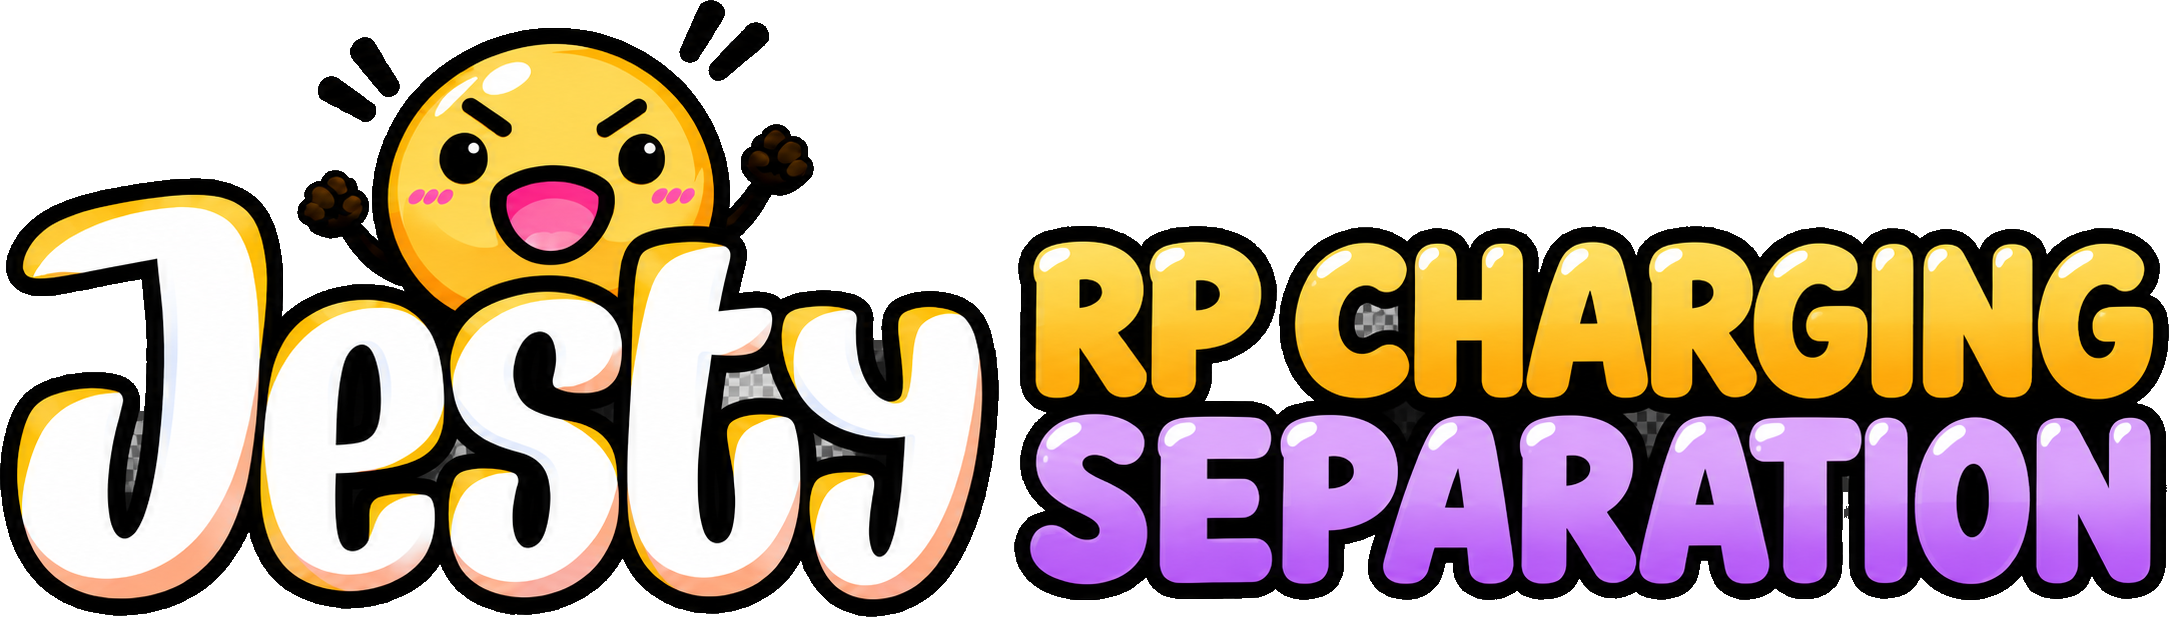
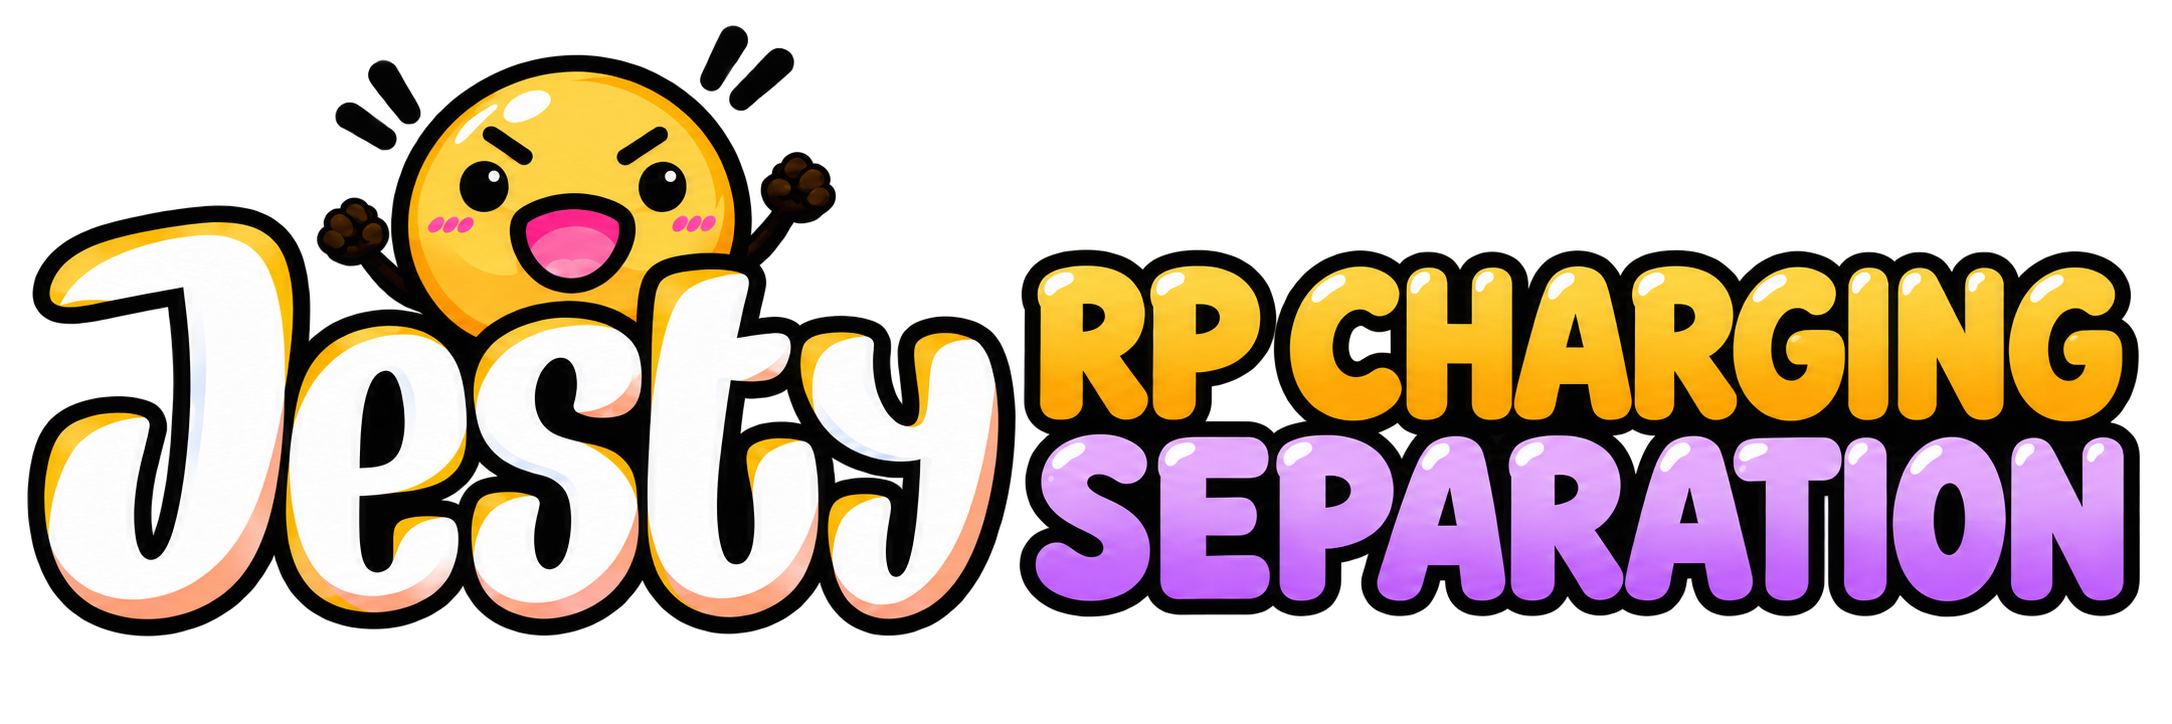
Refresh JestyLabs profile and canonical branding

diff --git a/profile/README.md b/profile/README.md
@@ -1,140 +1,112 @@
 <p align="center">
-  <img src="../assets/branding/jesty_labs_lockup.png" alt="Jesty Labs" width="620">
+  <img src="../assets/branding/jesty_labs_lockup.png" alt="Jesty Labs" width="650">
 </p>
 
 <p align="center">
-  <strong>Open-source tools for Android gaming handhelds.</strong><br>
-  Small community projects built to fix annoying hardware and software quirks on the devices we actually use.
+  <strong>Small, open-source tools for Android gaming handhelds.</strong><br>
+  Built around real hardware problems, simple setup, and evidence you can inspect.
 </p>
 
-Jesty Labs is where I put the little utilities that start with **"why does this handheld do that?"** and somehow turn into proper apps.
+<p align="center">
+  <a href="#apps"><strong>Explore the apps</strong></a>
+  · <a href="https://github.com/orgs/JestyLabs/repositories">Source code</a>
+  · <a href="https://www.buymeacoffee.com/jesty">☕ Support device testing</a>
+</p>
 
-The goal is simple: **fix a real problem, make the app easy to use, and show enough testing that you do not have to take my word for it.**
+## What Jesty Labs is
 
-No subscriptions, no locked features, and no complicated setup just for the sake of it.
+Jesty Labs is where a small handheld annoyance becomes a focused utility:
 
-## Made to be simple
+**find the real hardware behavior → fix it safely → make it easy to use → show
+how it was verified.**
 
-For normal use, these apps are designed to be as close as possible to:
+The apps are free and open source. There are no subscriptions and no features
+locked behind donations.
 
-**install → enable → forget about it**
+For normal use, the goal is always as close as possible to:
 
-You do **not** need to root the device yourself, install Magisk, or keep a terminal open.
+### install → enable → forget
 
-The apps are also designed so the dashboard does not need to stay on screen all the time. Once enabled, the background component does the actual work with minimal overhead.
+- No Magisk or user-managed root setup.
+- No terminal commands for normal use.
+- No need to keep the dashboard open.
+- The app can be swiped away from Recents while its background component keeps
+  working.
+- **Android Settings → Force stop is different** and blocks an app until it is
+  opened again.
 
-The exact behavior depends on the project, but the idea is the same: **you should not need to babysit an app just to keep a fix working.**
+## Apps
 
-Swiping an app away from Recents is fine. **Android Settings -> Force stop is
-different:** it explicitly blocks the app until you open it again.
+### Jesty Thor Fix
+
+<p align="center">
+  <a href="https://github.com/JestyLabs/Jesty-Thor-Fix">
+    <img src="../assets/branding/jesty_thor_header_lockup.png" alt="Jesty Thor Fix" width="560">
+  </a>
+</p>
+
+**True bottom-screen OFF for the AYN Thor.**
+
+Stock TOP-only can make the lower panel look black while its display hardware
+remains active. On the tested firmware, LITTLE and BIG CPU clocks also remained
+pinned under a light workload.
+
+Jesty Thor Fix powers down the lower display hardware, releases the continuous
+clock pinning observed with the stock behavior, and restores true-off after
+sleep/wake.
+
+- Runs without the dashboard open.
+- Restores the saved enabled/disabled choice after a normal reboot.
+- Does not set CPU governors or force CPU frequencies.
+- Includes live display/CPU verification.
+- Exact downloadable APK validated on physical AYN Thor hardware.
+
+**[Download and learn more →](https://github.com/JestyLabs/Jesty-Thor-Fix)**
 
 ---
 
-## Projects
+### Jesty RP Charging Separation
 
-### 🎮 Jesty Thor Fix
-
-<p>
-  <img src="../assets/branding/jesty_thor_header_lockup.png" alt="Jesty Thor Fix" width="520">
-</p>
-
-**Actually turns the AYN Thor bottom screen off.**
-
-The Thor's stock **TOP-only** mode can make the lower screen look off while the display is still active in the background.
-
-On the firmware I tested, I also found the CPU staying at unusually high speeds in that state, adding unnecessary power use and heat while only the top screen was being used.
-
-**Jesty Thor Fix makes TOP-only behave the way you would expect:** the bottom screen is really turned off, and the fix is automatically restored after the Thor wakes from sleep.
-
-For normal use:
-
-- **No Magisk or user root setup required**
-- **No terminal commands required**
-- Install the APK, enable the fix, and leave it alone
-- The app does **not** need to stay open
-- You can **swipe it away from Recents**
-- The background fix keeps working
-- Your enabled/disabled choice is restored after a normal reboot
-- Designed for **negligible background CPU/battery overhead**
-- Does **not** change CPU governors or force CPU frequencies
-
-And, of course:
-
-- Actually turns the bottom display off instead of only making it look black
-- Helps avoid the high CPU-frequency behavior seen in stock TOP-only mode
-- Reduced unnecessary power use and heat in testing
-- Automatically restores the fix after sleep/wake
-- Shows live CPU and display information if you want to verify it
-- Verified on real AYN Thor hardware
-
-👉 **[Jesty Thor Fix](https://github.com/JestyLabs/Jesty-Thor-Fix)**
-
----
-
-### 🔋 Jesty RP Charging Separation
-
-<p>
-  <img src="../assets/branding/jesty_rp_header_lockup.png" alt="Jesty RP Charging Separation" width="620">
+<p align="center">
+  <a href="https://github.com/JestyLabs/Jesty-RP-Charging-Separation">
+    <img src="../assets/branding/jesty_rp_header_lockup.png" alt="Jesty RP Charging Separation" width="620">
+  </a>
 </p>
 
 **Play while plugged in without continuously charging the battery.**
 
-Normally, plugging in a Retroid powers the handheld **and** charges the battery at the same time.
+The app uses Retroid's own privileged charging controls to stop active battery
+charging while USB remains connected and continues powering the handheld.
 
-During a long gaming session or docked use, you may want USB power to keep running the device without continuously pushing charge into the battery.
+- Live battery-flow, USB-input, and temperature telemetry.
+- Safety monitoring with automatic fallback to normal charging.
+- Optional restore after a normal reboot.
+- Exact downloadable APK validated on Retroid Pocket Flip 2.
+- Reported working on Retroid Pocket 5; publishable RP5 telemetry is still
+  welcome.
 
-**Jesty RP Charging Separation uses Retroid's own charging controls** to stop active battery charging while USB remains connected and continues supplying the handheld.
+**[Download and learn more →](https://github.com/JestyLabs/Jesty-RP-Charging-Separation)**
 
-For normal use:
+## Built around evidence
 
-- **No Magisk or user root setup required**
-- **No terminal commands required**
-- Install the APK and enable Charging Separation
-- The dashboard does **not** need to stay open
-- You can **swipe it away from Recents**
-- The background controller keeps working
-- Optional restore after a normal reboot
-- Designed for **minimal background CPU/battery overhead**
-- Automatically falls back to normal charging if its safety checks fail
+Each project publishes the useful parts of its validation: device and firmware
+scope, measurements, sanitized samples, release hashes, safety limitations, and
+what still needs testing.
 
-It also:
+That distinction matters. A compatible-looking device is not automatically
+presented as validated, and a short power capture is not presented as a promise
+of a specific battery-life increase.
 
-- Shows live battery, USB and temperature information
-- Verifies that charging separation actually activated
-- Monitors battery behavior while separation is active
-- Restores normal charging automatically if something does not look right
-- Exact public APK validated on Retroid Pocket Flip 2
-- Reported working on Retroid Pocket 5; repeat telemetry is welcome
+## Help the projects
 
-👉 **[Jesty RP Charging Separation](https://github.com/JestyLabs/Jesty-RP-Charging-Separation)**
+- ⭐ Star an app so other handheld owners can find it.
+- 🧪 Test another firmware or compatible device and share redacted results.
+- 🐛 Report reproducible bugs or compatibility problems.
+- 💡 Contribute code, documentation, or focused ideas.
+- ☕ [Buy me a coffee](https://www.buymeacoffee.com/jesty) to help fund device
+  testing and future development.
 
----
-
-## Built around real hardware
-
-These projects are developed and tested on actual handhelds, with measurements and validation published alongside the code whenever possible.
-
-That means you should be able to see not only **what a tool claims to fix**, but also **how it was tested and what changed on the device**.
-
-Each project includes its own compatibility notes, measurements, safety information and technical documentation.
-
-I only have access to a limited number of devices myself, so testing from other owners — especially different firmware versions — is extremely useful.
-
----
-
-## Get involved
-
-**Everything at Jesty Labs is free and open source.**
-
-If one of the projects is useful to you, there are several ways to help:
-
-- ⭐ **Star the project** so other handheld owners can find it
-- 🧪 **Test it on another firmware or device** and share your results
-- 🐛 **Report bugs or compatibility issues**
-- 💡 **Suggest improvements** or contribute code/documentation
-- ☕ **[Buy me a coffee](https://www.buymeacoffee.com/jesty)** to help fund device testing and future development
-
-Testing, bug reports and useful feedback are just as valuable as financial support.
+Testing and useful reports are just as valuable as financial support.
 
 <p align="center">
   <a href="https://www.buymeacoffee.com/jesty">
@@ -145,5 +117,6 @@ Testing, bug reports and useful feedback are just as valuable as financial suppo
 ---
 
 <p align="center">
-  <sub>Jesty Labs is an independent community project and is not affiliated with or endorsed by AYN Technologies, Retroid, or their respective parent companies.</sub>
+  <sub>Jesty Labs is an independent community project and is not affiliated with or endorsed by AYN Technologies, Retroid, or their respective parent companies.</sub><br>
+  <sub>Code, documentation, branding, and visual assets were developed with disclosed generative-AI assistance under human direction, supervision, review, testing, and final approval.</sub>
 </p>

diff --git a/ASSET-PROVENANCE.md b/ASSET-PROVENANCE.md
@@ -1,0 +1,17 @@
+# Asset provenance
+
+The organization profile uses the same transparent lockups shipped by the two
+application repositories:
+
+- `assets/branding/jesty_thor_header_lockup.png` — canonical asset from
+  `JestyLabs/Jesty-Thor-Fix`.
+- `assets/branding/jesty_rp_header_lockup.png` — canonical asset from
+  `JestyLabs/Jesty-RP-Charging-Separation`.
+- `assets/branding/jesty_labs_lockup.png` — Jesty Labs organization lockup
+  selected and supplied by the maintainer.
+
+Branding and visual assets were created or refined with generative-AI
+assistance under the maintainer's direction and supervision. The maintainer
+selected the final designs, reviewed the transparent exports, and approved
+their use. Project-specific licensing and third-party notices remain in each
+application repository.
